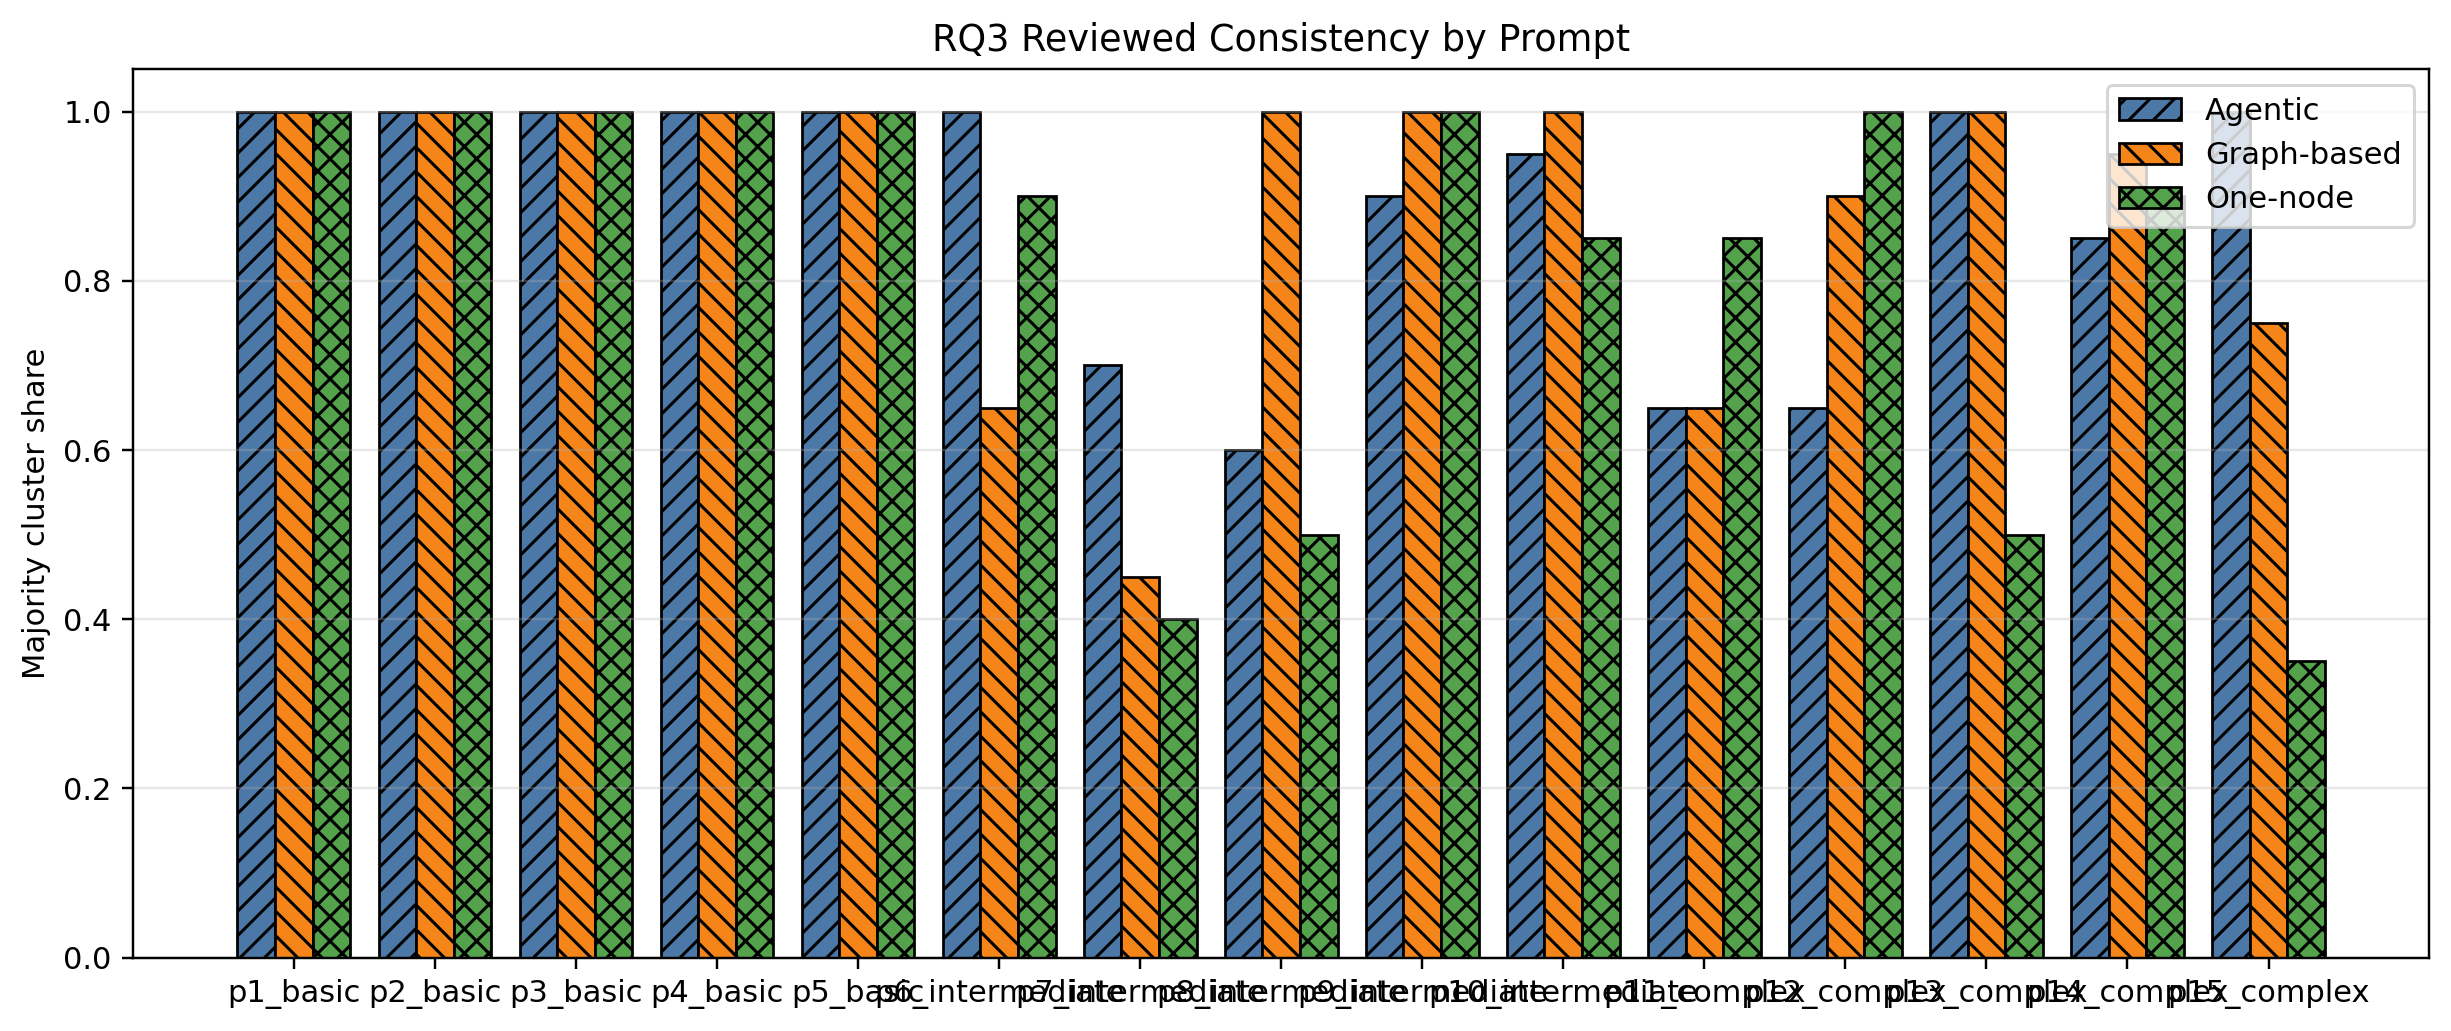
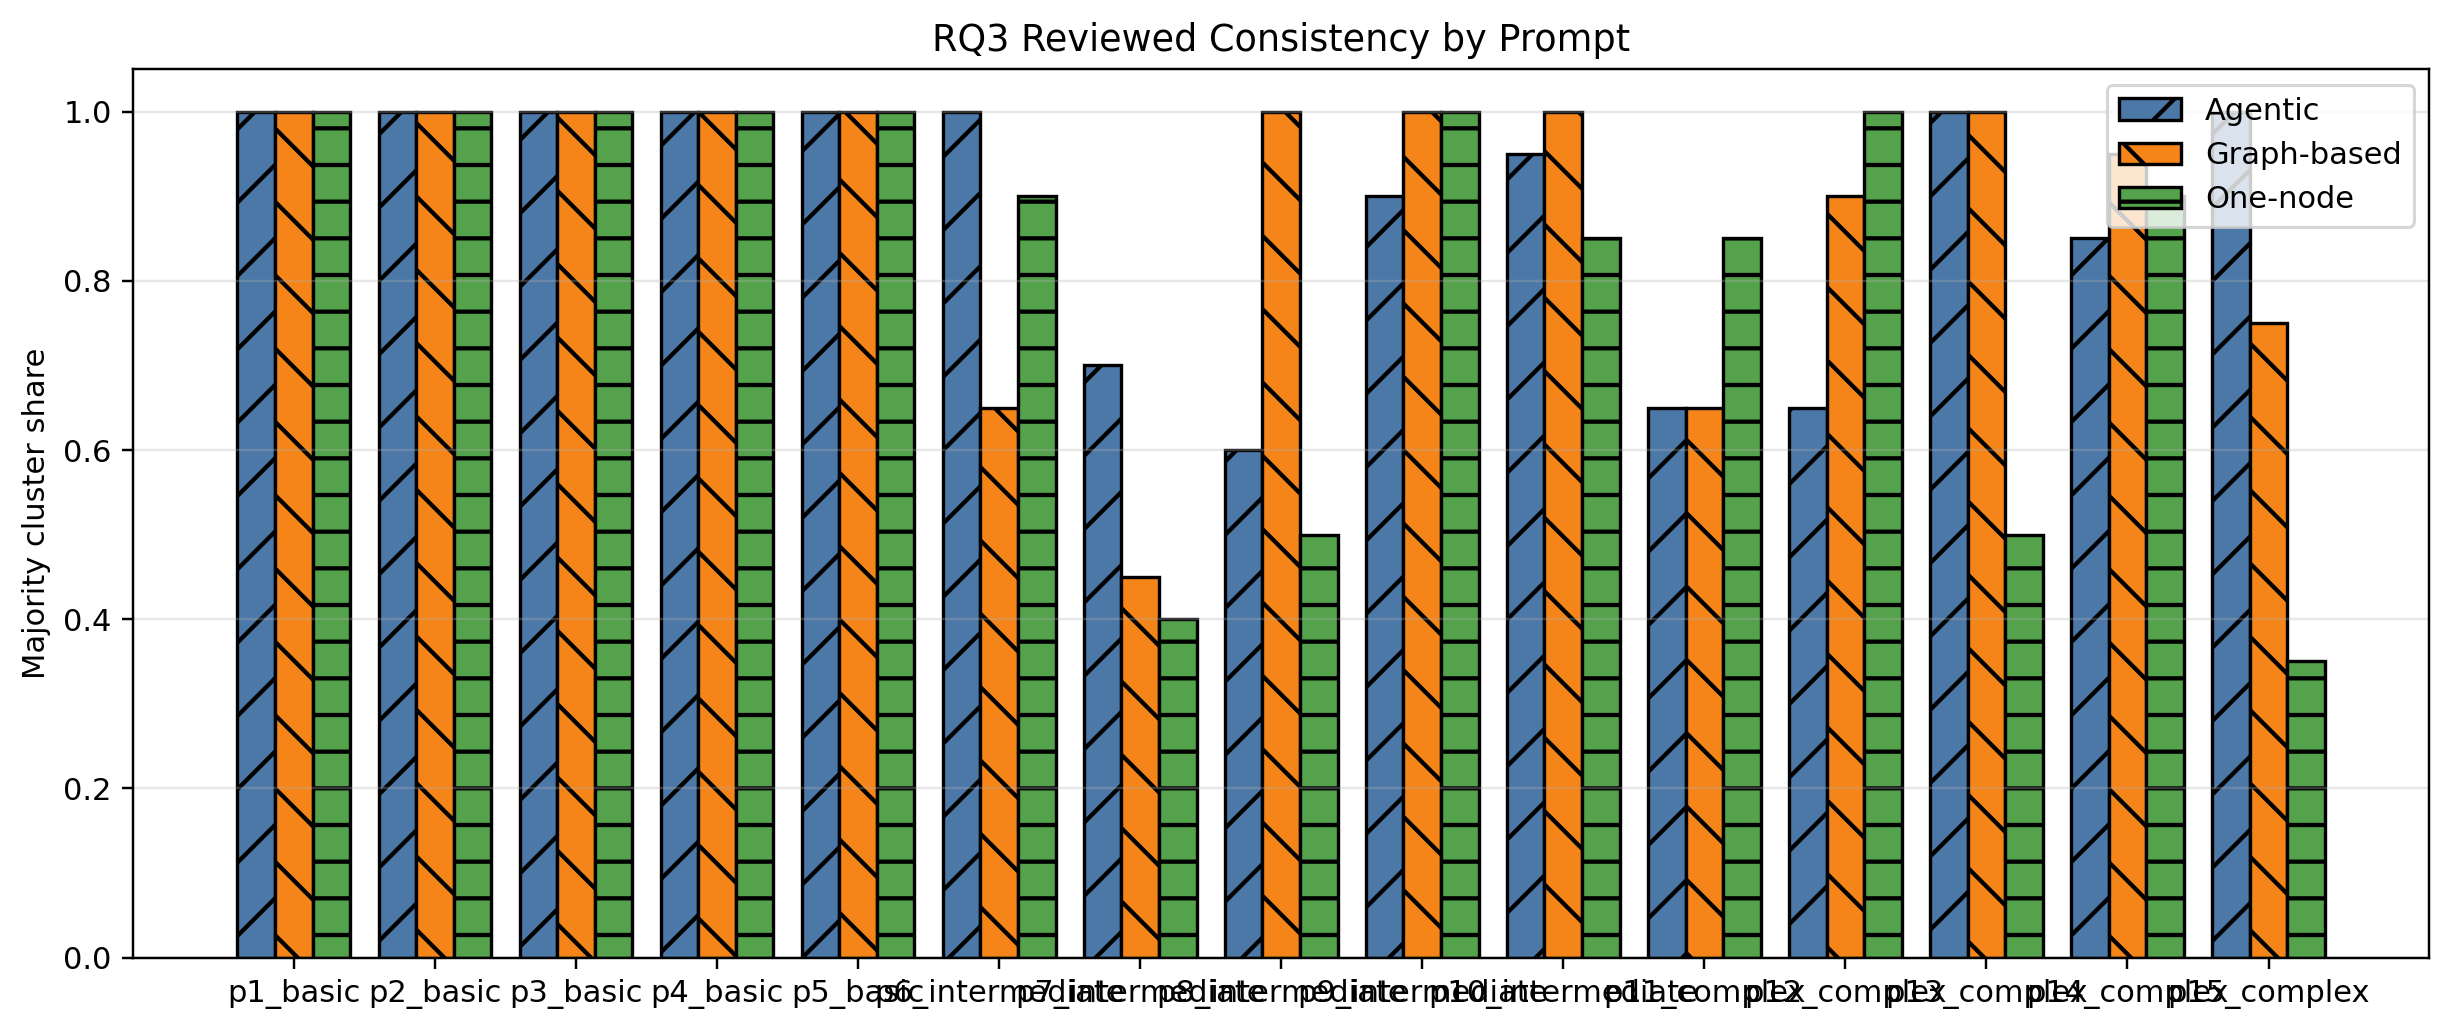
improved b&w

Changed region(s): [[0.093, 0.0931, 0.9612, 0.9311]]

diff --git a/app/rq3_clustering/plots.py b/app/rq3_clustering/plots.py
@@ -40,6 +40,7 @@ def generate_plots(
         import matplotlib
 
         matplotlib.use("Agg")
+        matplotlib.rcParams["hatch.linewidth"] = 1.4
         import matplotlib.pyplot as plt
         import numpy as np
     except ImportError:
@@ -53,9 +54,9 @@ def generate_plots(
     out_dir.mkdir(parents=True, exist_ok=True)
     written_paths: list[Path] = []
     arch_hatches = {
-        "Agentic": "///",
-        "Graph-based": "\\\\\\",
-        "One-node": "xxx",
+        "Agentic": "/",
+        "Graph-based": "\\",
+        "One-node": "-",
     }
     arch_fills = {
         "Agentic": "#4C78A8",
@@ -90,7 +91,7 @@ def generate_plots(
             values,
             color=[arch_fills.get(label, "#bdbdbd") for label in labels],
             edgecolor="black",
-            linewidth=1.0,
+            linewidth=1.2,
         )
         for bar, label in zip(bars, labels):
             bar.set_hatch(arch_hatches.get(label, "///"))
@@ -158,7 +159,7 @@ def generate_plots(
             label=arch_label,
             color=arch_fills.get(arch_label, "#bdbdbd"),
             edgecolor="black",
-            linewidth=0.9,
+            linewidth=1.1,
         )
         for bar in bars:
             bar.set_hatch(arch_hatches.get(arch_label, "///"))
@@ -181,7 +182,7 @@ def generate_plots(
             label=arch_label,
             color=arch_fills.get(arch_label, "#bdbdbd"),
             edgecolor="black",
-            linewidth=0.9,
+            linewidth=1.1,
         )
         for bar in bars:
             bar.set_hatch(arch_hatches.get(arch_label, "///"))
@@ -241,7 +242,7 @@ def generate_plots(
                 label=arch_label,
                 color=arch_fills.get(arch_label, "#bdbdbd"),
                 edgecolor="black",
-                linewidth=0.9,
+                linewidth=1.1,
             )
             for bar in bars:
                 bar.set_hatch(arch_hatches.get(arch_label, "///"))
